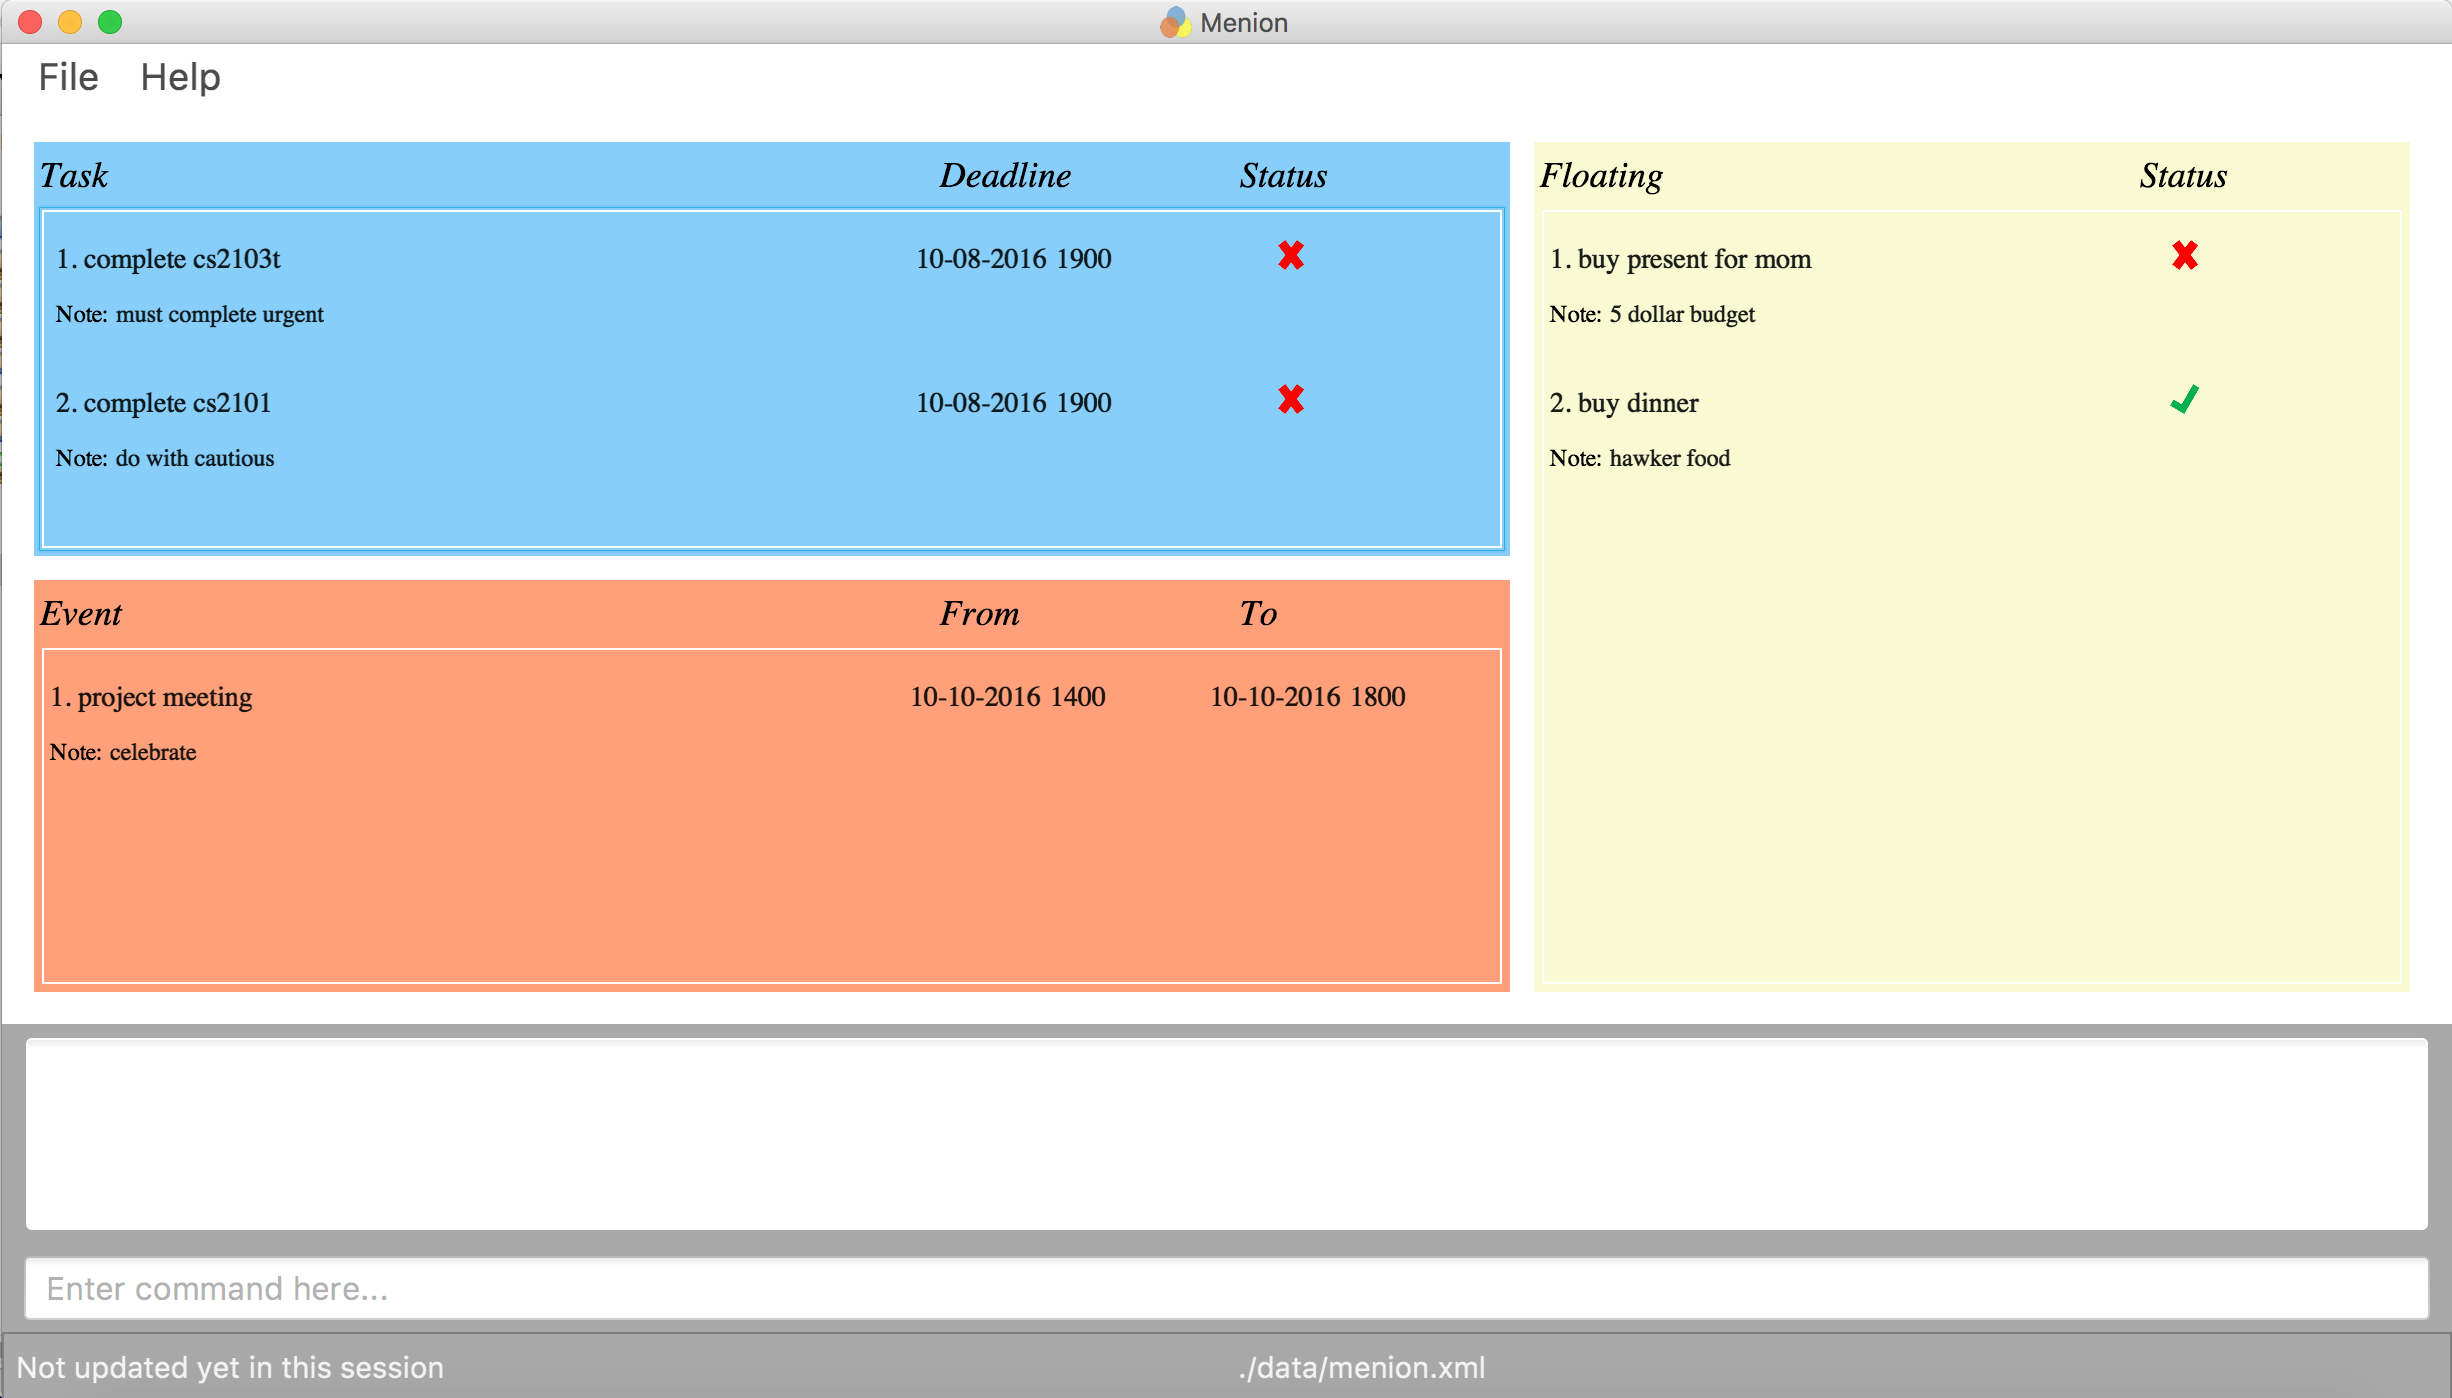
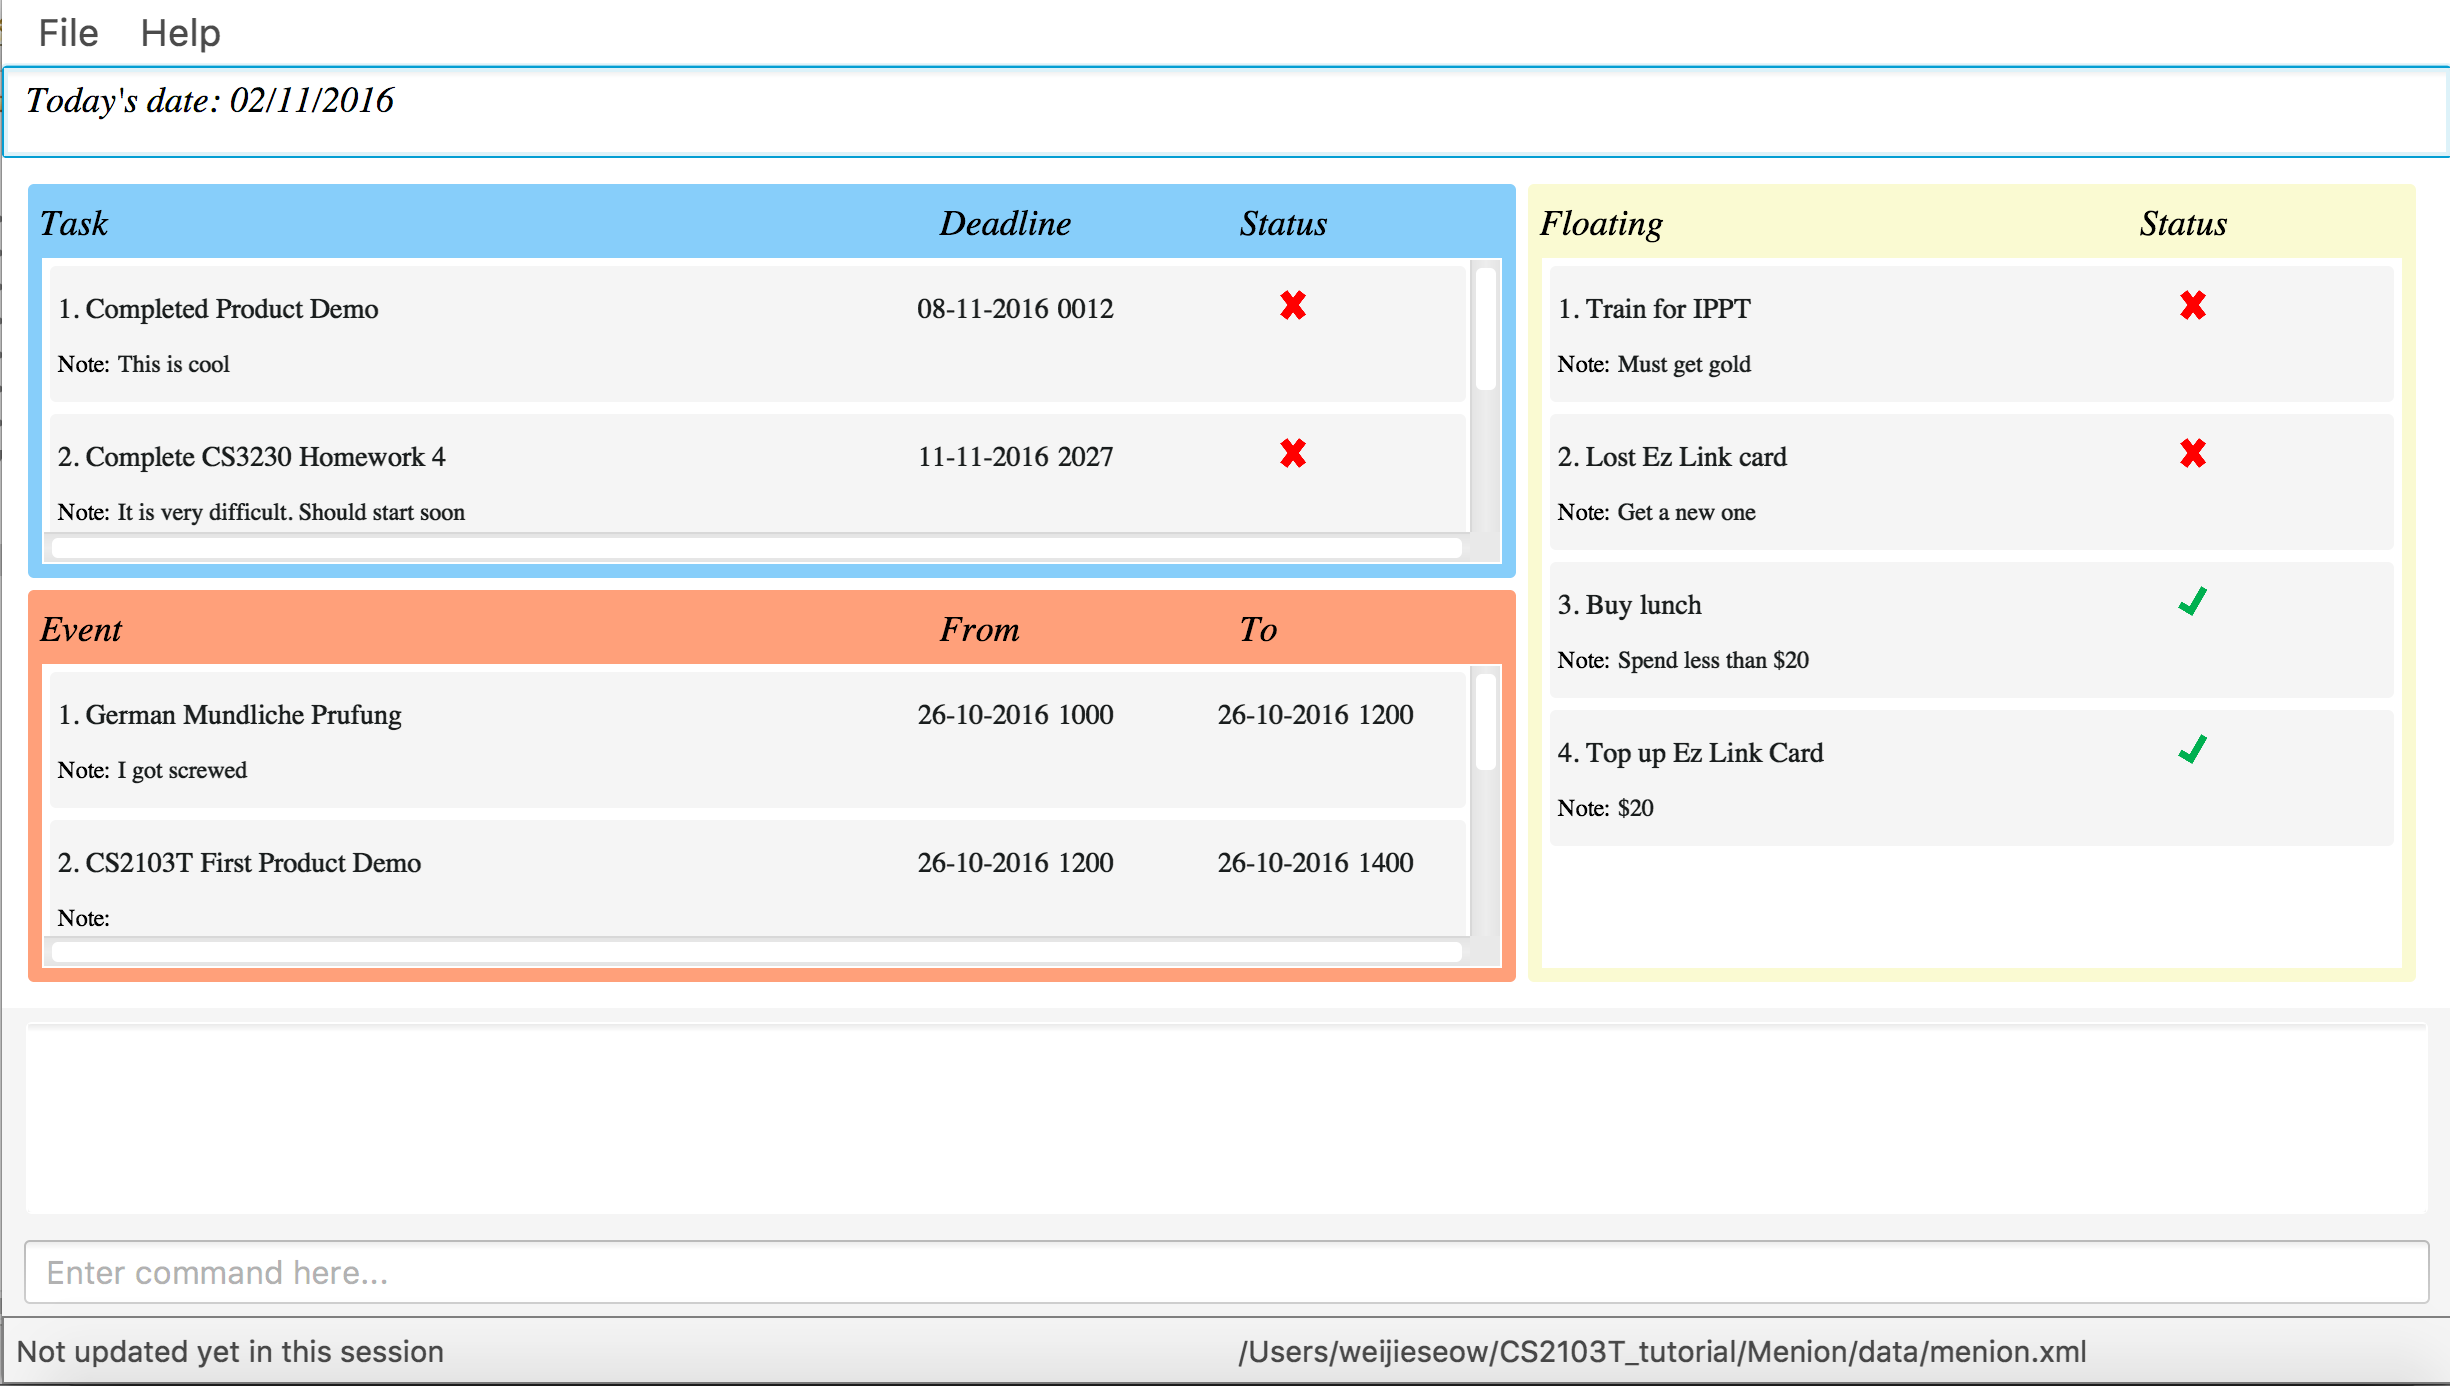
Make some ui changes to date display and update MainPageDisplay picture

diff --git a/src/main/java/seedu/menion/ui/DatetimeDisplay.java b/src/main/java/seedu/menion/ui/DatetimeDisplay.java
@@ -17,7 +17,7 @@ import seedu.menion.commons.util.FxViewUtil;
  */
 public class DatetimeDisplay extends UiPart {
     public static final String RESULT_DISPLAY_ID = "datetimeDisplay";
-    private static final String STATUS_BAR_STYLE_SHEET = "result-display";
+    private static final String DATE_STYLE_SHEET = "cell_big_label";
     private TextArea resultDisplayArea;
     private final StringProperty displayed = new SimpleStringProperty("");
 
@@ -38,8 +38,8 @@ public class DatetimeDisplay extends UiPart {
         resultDisplayArea.setEditable(false);
         resultDisplayArea.setId(RESULT_DISPLAY_ID);
         resultDisplayArea.getStyleClass().removeAll();
-        resultDisplayArea.getStyleClass().add(STATUS_BAR_STYLE_SHEET);
-        resultDisplayArea.setText(currentDate);
+        resultDisplayArea.getStyleClass().add(DATE_STYLE_SHEET);
+        resultDisplayArea.setText("Today's date: " + currentDate);
         FxViewUtil.applyAnchorBoundaryParameters(resultDisplayArea, 0.0, 0.0, 0.0, 0.0);
         mainPane.getChildren().add(resultDisplayArea);	
         FxViewUtil.applyAnchorBoundaryParameters(mainPane, 0.0, 0.0, 0.0, 0.0);
